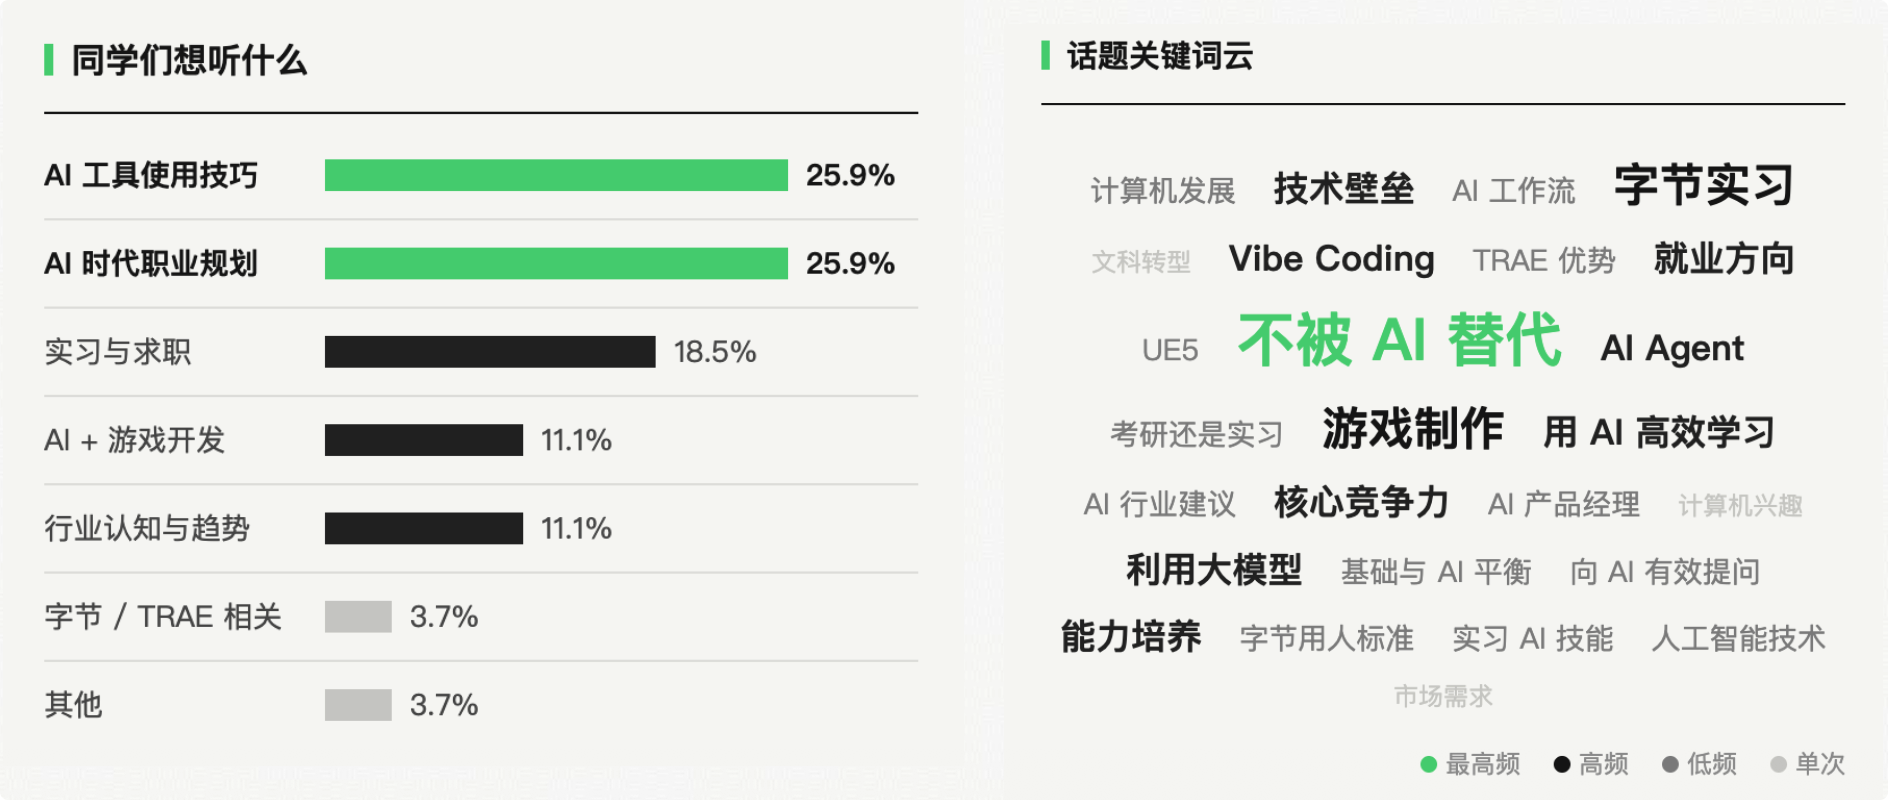
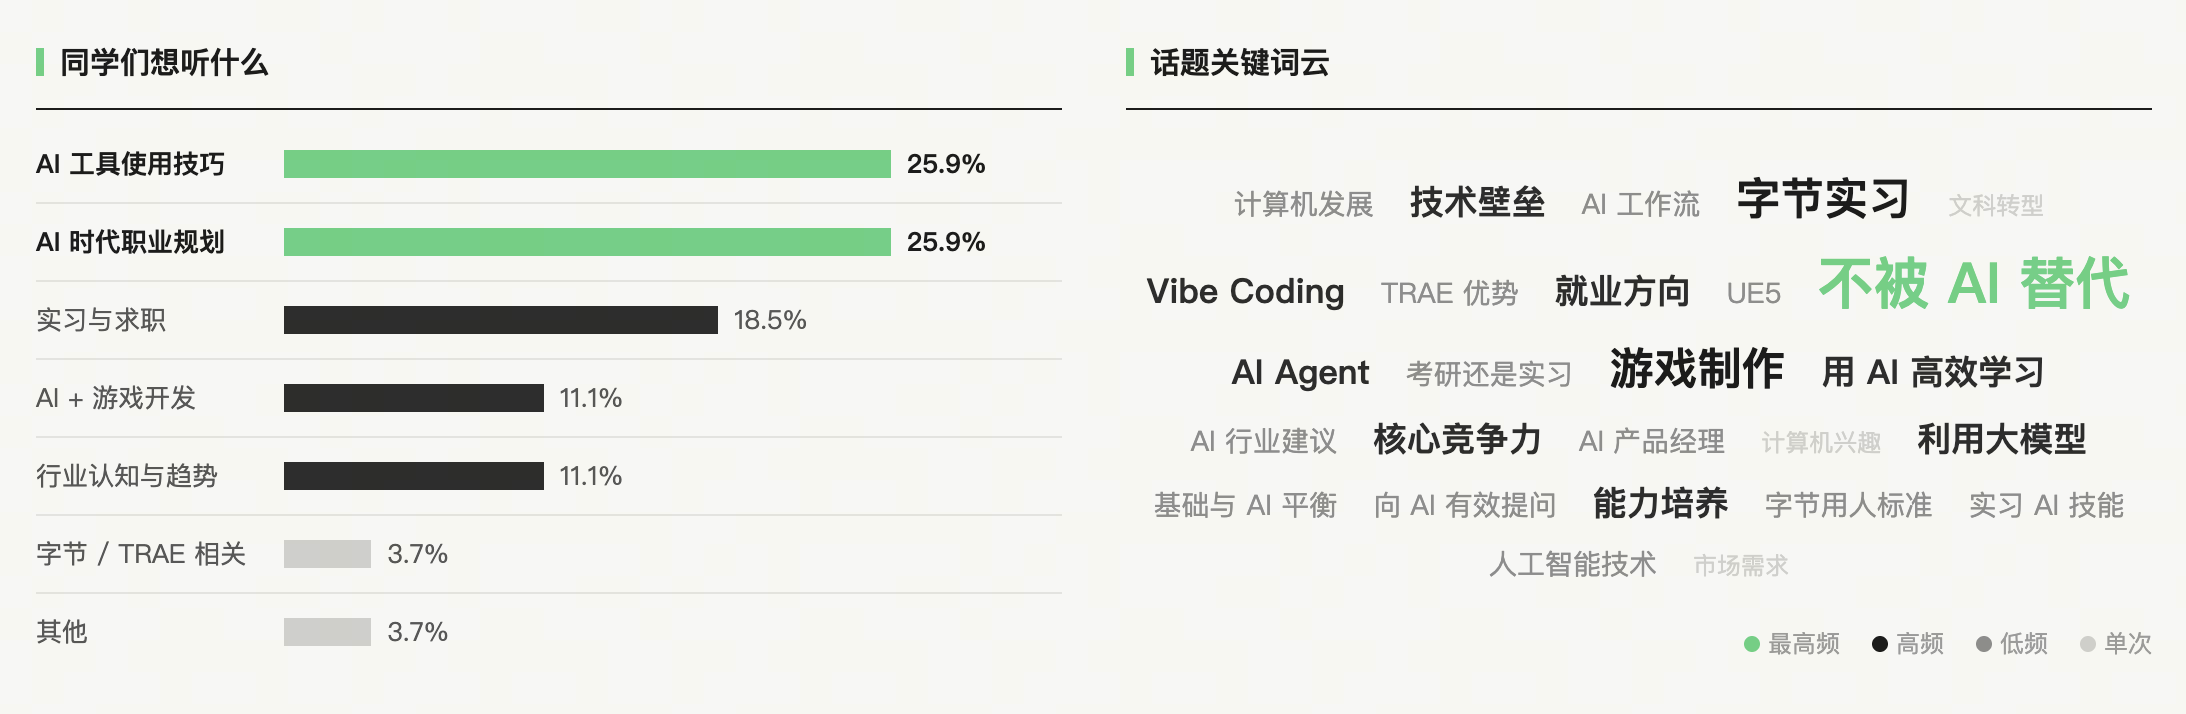
换用飞书原图的高清调研图，同步飞书原文快照

diff --git a/slide/build.ts b/slide/build.ts
@@ -19,7 +19,7 @@ const BG = "#F7F8F5";
 const MAXW: Record<string, number> = {
   "learn-1.png": 1600, "learn-2.png": 1600, "learn-3.png": 1600, "learn-4.png": 1600,
   "case-1.png": 1600, "case-2.png": 1600, "case-3.png": 1600, "case-4.png": 1600,
-  "research-crop.png": 1806, "quote.png": 1983,
+  "research-crop.png": 2186, "quote.png": 1983,
 };
 
 // 截图类（文字多）给更高画质，避免小字出现压缩噪点

diff --git a/article/原文.md b/article/原文.md
@@ -2,11 +2,17 @@
 
 ## 楔子：迷茫的大学生
 
-最近，无论是参与校招，还是在社区交流，都能感受到不少大学生的迷茫。AI 带来的冲击，加上求职中的受挫，让大家对学什么、怎么学，以及未来往哪里走，有非常多的困惑。
+**🤷 学生需要机会才能积累经验，却又需要经验才能获得机会。** 我是 TRAE 的核心开发者，最近在校招和高校分享时，明显感觉到大学生普遍的迷茫： 学校的课程跟不上时代、实习面试要求太高、招聘岗位要求会 AI 造火箭。
 
 ![调查问卷 - TRAE Campus 走进校园](images/01.png)
 
 **我们身处 AI 时代的起点，正逢大争之世，群雄逐鹿。**变化太快，很多问题还没有清晰的答案，有些迷茫也在所难免。因此，从一名从业者的角度，记录下自己的观察和思考，虽未必能给出好的解法，仅希望能为同学们提供一些启发。
+
+
+
+> 对应的知乎问答，如果你觉得本文不错，求跳过去点个赞～ [《在 AI 盛行的时代，大学生到底要学什么、怎么学才不会被淘汰？》](https://www.zhihu.com/question/2076658003068052960/answer/2102009083041674168)
+> 
+> 对应的 Slide 演讲稿，用 AI 一页一页做的，https://atian25.github.io/trae-campus-slide
 
 ---
 
@@ -23,7 +29,7 @@
 
 
 
-一句话总结：先学基础，积累实践，凭潜力获得机会，最后在真实工作中逐步成长。
+简而言之：先学基础，积累实践，凭潜力获得机会，最后在真实工作中逐步成长。
 
 ---
 

diff --git a/article/README.md b/article/README.md
@@ -1,6 +1,6 @@
 # 原文资料（飞书同步）
 
-本目录是飞书原稿的本地快照，由 lark-cli docs +fetch 拉取，最近一次同步：2026-11-06。
+本目录是飞书原稿的本地快照，由 lark-cli docs +fetch 拉取，最近一次同步：2026-11-07。
 
 - 原文.md：正文（图片引用已替换为本地 images/ 路径）
 - images/01.png ~ images/17.png：文中全部 17 张图片，按出现顺序编号
